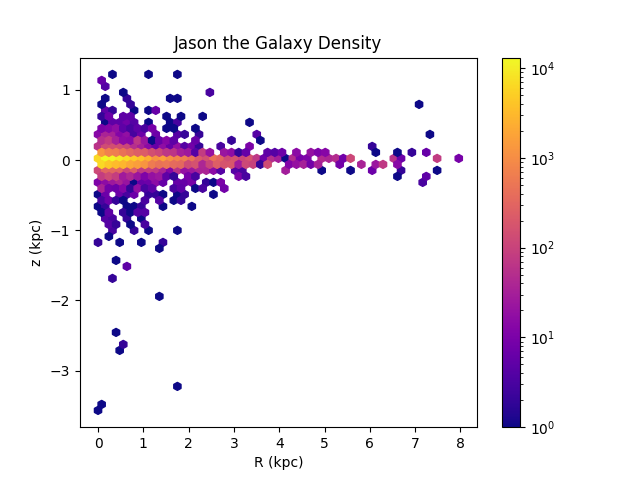
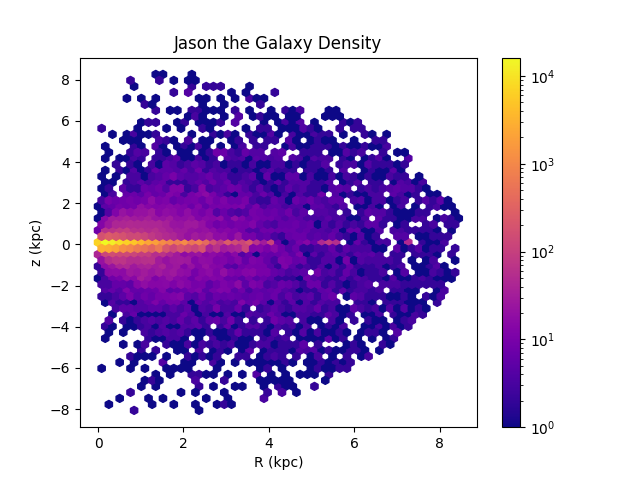
Cleanup (specifically a hernquist)

diff --git a/backend/fraction_sampling.py b/backend/fraction_sampling.py
@@ -2,17 +2,11 @@ import numpy as np
 from matplotlib import pyplot as plt
 import sympy as sp
 from latex2sympy2 import latex2sympy as l2s
-from star_types import get_random_star
-from astropy import units as u
 from galpy.potential import HernquistPotential
+from scipy.optimize import fsolve
+from scipy.optimize import minimize
 
-# Method taken from https://bjerkeli.se/onewebmedia/thesis.pdf
-
-# Define constants
-G = 6.67430e-11 * u.m**3 / (u.kg * u.s**2)  # Gravitational constant
-
-
-# Define the equations of the Hernquist distribution
+# Define equations of the Hernquist distribution
 hernquist = {
     "density_dist": l2s(r"\frac{M}{2\pi} \frac{a}{r} \frac{1}{(r+a)^3}"), # Density distribution (rho(r))
     "mass_frac": l2s(r"M_f=\frac{r^2}{(r+a)^2}"), # Mass fraction (M_f = M(r)/M)
@@ -25,131 +19,61 @@ hernquist = {
     }
 }
 
-# Define elliptical galaxy generation function using the Hernquist distribution
-#def elliptical_galaxy_gen(num_bodies, max_radius, total_mass, a=1, G=G.value):
-def fraction_sampling(num_bodies, a=1):
+# Sample Hernquist potential using mass fractions
+def fraction_sampling(num_bodies, a=1, rejection_threshold=None):
     # Generate positions
     ## Draw random mass fractions and solve for radius
-    mass_fractions = np.random.rand(num_bodies)
+    mass_fractions = np.random.uniform(0, 1, num_bodies)
     
-    M_r, r, a_symbol = sp.symbols("M_r r a")
-    mass_frac_eq = sp.Eq(hernquist["mass_frac"], M_r)
-    radius_solutions = sp.solve(mass_frac_eq, r)
-    radius_solutions_func = sp.lambdify((M_r, a_symbol), radius_solutions[0])
-    #print(radius_solutions)
+    radius_solution_func = lambda M_f, a: -a * ((np.sqrt(M_f) + M_f) / (np.sqrt(M_f) - 1))
+    radius_solution_func = np.vectorize(radius_solution_func)
     
-    radius = radius_solutions_func(mass_fractions, a)
+    radius = radius_solution_func(mass_fractions, a)
     #print(f"Radius: {radius}")
     
-    return radius
-    
-    """plt.hist(radius, bins=100, density=True)
-    plt.xscale("log")
-    plt.show()
-    
-    ## Randomly distribute on a sphere of corresponding radius
-    ### Generate random positions
-    
-    positions = np.zeros((num_bodies, 3))
-    positions[:, 0] = np.random.normal(0, 1, num_bodies)
-    positions[:, 1] = np.random.normal(0, 1, num_bodies)
-    positions[:, 2] = np.random.normal(0, 1, num_bodies)
-    
-    ### Normalise the positions
-    norms = np.linalg.norm(positions, axis=1)
-    positions = positions / norms.reshape(-1, 1)
-    
-    ### Scale the positions to the radius
-    positions = positions * radius.reshape(-1, 1)
-    
-    
-    # Generate masses
-    ## Draw random masses
-    masses = np.zeros(num_bodies)
-    for i in range(num_bodies):
-        masses[i] = get_random_star()
+    if rejection_threshold is not None:
+        # Reject samples that are above the rejection threshold
+        radius = radius[radius < rejection_threshold]
 
-    ## Scale masses to the total mass
-    masses = masses / np.sum(masses) * total_mass
-    
-    
-    # Generate velocities for each position
-    velocities = np.zeros((num_bodies, 3))
-    
-    # V^2_circ = GMr(r+a)^-2
-    
-    return positions, radius"""
+    return radius
 
 def main():
-    # Test the elliptical galaxy generation function
-    radius = 40e3 # parsecs
-    num_bodies = 1000
-    total_mass = 1e9 # solar masses
-    G_const = G.to_value(u.pc**3 / (u.M_sun * u.s**2))
-    print(f"G: {G_const}")
-    positions, radii = fraction_sampling(num_bodies, radius, total_mass, G=G_const, a=0.45)
+    num_bodies = 100000
+    a = 0.45/10
+    positions = fraction_sampling(num_bodies, a=a, rejection_threshold=10)
     
-    """# Plot a histogram of the radii
-    plt.hist(radii, bins=100, density=True)
-    plt.xscale("log")
-    plt.xlabel("Radius")
-    plt.ylabel("Density")
+    
+    radii = np.linspace(1e-5, np.max(positions), 10000)
+    true_density = HernquistPotential(a=a, normalize=1).dens(radii, 0)
+    area_under_density = np.trapz(true_density, radii)
+    print(f"Area under density: {area_under_density}")
+    normalised_density = true_density / area_under_density
+    
+    area_under_density = np.trapz(normalised_density, radii)
+    print(f"Area under normalised density: {area_under_density}")
+    
+    
+    fig, ax1 = plt.subplots()
+    
+    # Plot true density on first y-axis
+    ax1.plot(radii, normalised_density, label="True density", color='blue')
+    ax1.set_xlabel("Radius")
+    ax1.set_ylabel("True Density", color='blue')
+    ax1.tick_params(axis='y', labelcolor='blue')
+    ax1.set_yscale("log")
+    
+    # Create second y-axis for histogram
+    ax2 = ax1.twinx()
+    
+    # Plot sampled radii histogram on second y-axis
+    ax2.hist(positions, bins=100, alpha=0.5, density=True, label="Sampled radii", edgecolor='black', color='orange')
+    ax2.set_ylabel("Sampled Radii Density", color='orange')
+    ax2.tick_params(axis='y', labelcolor='orange')
+    ax2.set_yscale("log")
+    
+    plt.legend()
     plt.show()
-    """
     
-    """# Plot the positions
-    fig = plt.figure()
-    ax = fig.add_subplot(111, projection='3d')
-    ax.scatter(positions[:, 0], positions[:, 1], positions[:, 2])
-    
-    ## Plot a point at the origin
-    ax.scatter(0, 0, 0, color="r")
-    
-    ## Set the aspect ratio of the plot to be equal
-    ax.set_box_aspect([1,1,1])
-    
-    ## Limit the plot to the radius
-    ax.set_xlim(-radius, radius)
-    
-    plt.show()"""
-    
-    # Remove points outside the radius*1.5
-    positions = positions[np.linalg.norm(positions, axis=1) < radius*1.5]
-    
-    # Plot a 2x2 grid of views of the galaxy
-    fig, axs = plt.subplots(2, 2)
-
-    ## 3D plot
-    ax = fig.add_subplot(2, 2, 1, projection='3d')
-    ax.scatter(positions[:, 0], positions[:, 1], positions[:, 2], s=1)
-    ax.set_title("3D view")
-
-    ## Remove empty graph/axes for the 3D plot
-    fig.delaxes(axs[0, 0])
-
-    ## 2D Side view
-    ax = axs[0, 1]
-    ax.grid(True)
-    ax.scatter(positions[:, 1], positions[:, 2], s=1)
-    ax.set_title("2D Side view")
-    ax.set_aspect('equal', 'box')
-
-    ## 2D Top view
-    ax = axs[1, 0]
-    ax.grid(True)
-    ax.scatter(positions[:, 0], positions[:, 1], s=1)
-    ax.set_title("2D Top view")
-    ax.set_aspect('equal', 'box')
-    
-
-    ## 2D Front view
-    ax = axs[1, 1]
-    ax.grid(True)
-    ax.scatter(positions[:, 0], positions[:, 2], s=1)
-    ax.set_title("2D Front view")
-    ax.set_aspect('equal', 'box')
-
-    plt.show()
     
 if __name__ == '__main__':
     main()

diff --git a/backend/galaxy_distribution.py b/backend/galaxy_distribution.py
@@ -100,23 +100,27 @@ class Galaxy:
     def generate_positions(self, component, num_bodies_comp, comp_mass):
         print(f'Generating {num_bodies_comp} bodies for component {component["name"]}')
         positions = np.empty((0, 3))
+        
+        # Generate positions for each potential in the component
         for potential in component['potentials']:
             
+            # Determine how many bodies should be generated based on the mass of the potential
             pot_mass = potential['parameters']['mass']
             print(f"Potential mass: {pot_mass}")
             pot_bodies = round((pot_mass/comp_mass) * num_bodies_comp)
             print(f"Potential bodies: {pot_bodies}")
             
-            if potential['type'] == 'Miyamoto-Nagai': # Miyamoto-Nagai (Axisymmetric potentials)
+            # For Miyamoto-Nagai (Axisymmetric potentials)
+            if potential['type'] == 'Miyamoto-Nagai':
                 # Initialise density function from potential
                 density = lambda R, z: potential['galpy_potential'].dens(R, z, 0)
                 print(f"Num. bodies in potential {potential['type']}: {pot_bodies}")
                 
                 # Sample from the density function using MCMC
-                #samples = metropolis_hastings(density, 2, pot_bodies)
+                samples = metropolis_hastings(density, 2, pot_bodies)
                 
                 
-                # Alternative method to avoid banding of samples
+                """# Alternative method to avoid banding of samples
                 if pot_bodies < 100000:
                     num_samples = 100000
                 else:
@@ -124,7 +128,7 @@ class Galaxy:
                 samples = metropolis_hastings(density, 2, num_samples)
                 np.random.shuffle(samples)
                 #print(f"Samples: {samples}")
-                samples = samples[:pot_bodies]
+                samples = samples[:pot_bodies]"""
                 
                 
                 # Generate random angles for bodies around the z-axis
@@ -142,8 +146,8 @@ class Galaxy:
                 print(positions)
                 print(f"Generated {len(positions)} positions, num. bodies: {pot_bodies}")
                 
-                
-            else: # Hernquist
+            # Else, presume Hernquist (NFW only used for dark matter, not particle distribution)
+            else:
                 #density = lambda r: potential['galpy_potential'].dens(r + 1e-10, 0)
                 #samples = metropolis_hastings(density, 1, num_bodies)
                 print(f"Num. bodies in potential {potential['type']}: {pot_bodies}")
@@ -171,6 +175,7 @@ class Galaxy:
         
         return positions
     
+    # Get the maximum radius of the galaxy
     def get_galaxy_max_radius(self):
         max_radius = 0
         for component in self.components:
@@ -187,6 +192,7 @@ class Galaxy:
                         max_radius = potential['parameters']['a']
         return max_radius
     
+    # Generate velocities of bodies from total potential
     def generate_velocities(self, positions, total_potential):
         velocities = np.empty((0, 3))
         
@@ -209,6 +215,7 @@ class Galaxy:
         
         return velocities
     
+    # Plot the rotational velocities of the galaxy
     def plot_rotational_vel(self):
         r = np.linspace(1e-10, self.get_galaxy_max_radius(), 1000)
         
@@ -233,10 +240,6 @@ class Galaxy:
         plt.savefig(f'backend/galaxy_plots/{self.name}_rotational_velocity.png')
         plt.show()
             
-            
-                
-        
-    
     # Plot density of galaxy in a hexbin plot (as function of R and z)
     def plot_scatter_density(self):
         positions = np.empty((0, 3))
@@ -277,11 +280,6 @@ class Galaxy:
                         # Find density in a line, then move around a semi-circle to meshgrid
                         density = potential['galpy_potential'].dens(np.sqrt(R**2 + z**2 + 1e-10), 0)
                         total_mass += density
-
-                        """for i in range(np.size(R, axis=0)):
-                            for j in range(np.size(R, axis=1)):
-                                density = potential['galpy_potential'].dens(np.sqrt(R[i, j]**2 + z[i, j]**2 + 1e-10), 0)
-                                total_mass += density"""
         
         plt.figure()
         plt.hexbin(R.flatten(), z.flatten(), C=total_mass.flatten(), gridsize=100, cmap='plasma', bins='log')
@@ -358,16 +356,6 @@ class Galaxy:
     def get_t_dyn(self):
         t_dyn = tdyn(self.total_potential, self.get_galaxy_max_radius() * u.kpc)
         return t_dyn
-    
-    # Export galaxy 
-    def export_galaxy(self, filename):
-        components_copy = self.components.copy()
-        for component in components_copy:
-            for potential in component['potentials']:
-                del potential['galpy_potential']
-                
-        with open(filename, 'w') as f:
-            json.dump({'name': self.name, 'components': components_copy}, f, indent=4)
         
     # Return the galaxy bodies as a dictionary
     def get_galaxy(self):
@@ -401,17 +389,6 @@ def main():
     #galaxy.plot_component_scatter()
     galaxy.plot_rotational_vel()
     galaxy.plot_full_galaxy()
-    """print(f"Dynamical time: {galaxy.get_t_dyn()} Gyr")
-    #print(f"To return: {galaxy.get_galaxy()}")
-    bodies = galaxy.get_galaxy()
-    print(f"Total mass of bodies: {np.sum(bodies['mass'])}")
-    print(f"Predicted total mass: {galaxy.total_mass}")
-    print(f"Requested number of bodies: {galaxy.num_bodies}")
-    print(np.size(bodies['mass']))
-    print(np.size(bodies['position'], axis=0))
-    print(np.shape(bodies['position']))
-    print(np.size(bodies['velocity'])) 
-    print(np.shape(bodies['velocity']))  """ 
     
 if __name__ == "__main__":
     main()
